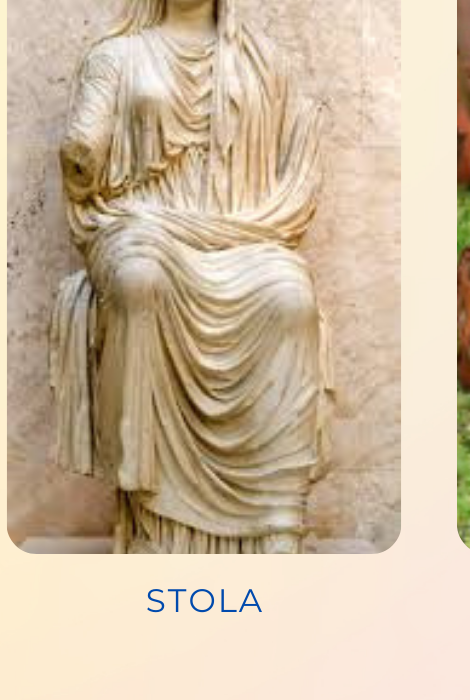
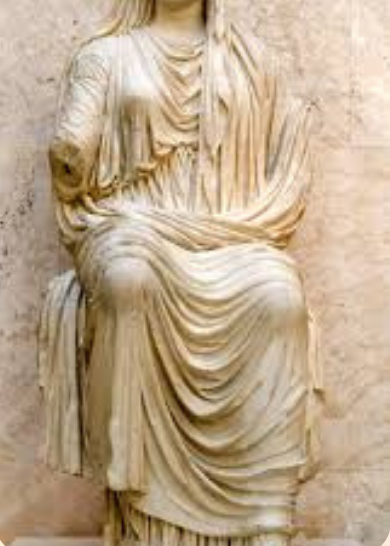
Use updated cropped catalog images

diff --git a/styles.css b/styles.css
@@ -119,7 +119,7 @@ h1 {
   display: block;
   width: 100%;
   height: 100%;
-  object-fit: contain;
+  object-fit: cover;
   object-position: center;
 }
 
@@ -161,7 +161,7 @@ h1 {
 .detail-card img {
   width: 100%;
   aspect-ratio: 0.9;
-  object-fit: contain;
+  object-fit: cover;
   object-position: center;
   border-radius: 22px;
 }
